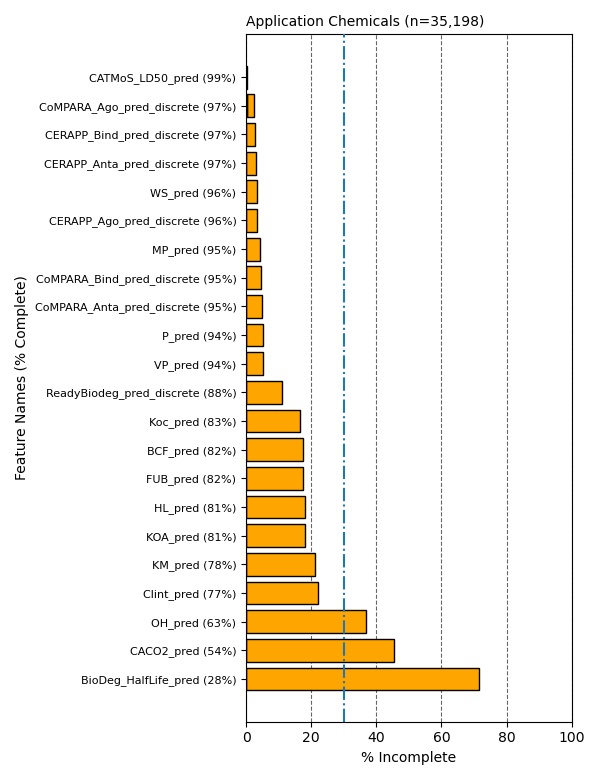
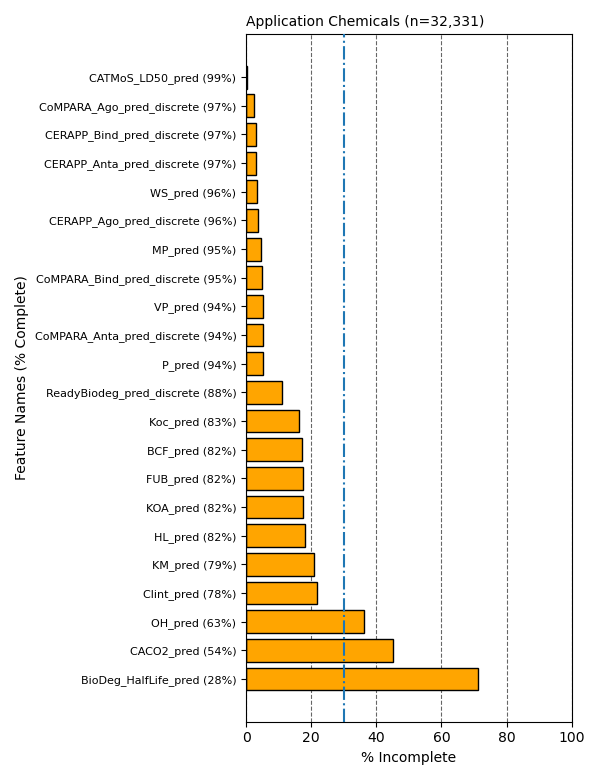
Refactor feature_completeness.py: Separate training and application

diff --git a/plotting/feature_completeness.py b/plotting/feature_completeness.py
@@ -30,23 +30,24 @@ def proportions_incomplete_subplots(
     ys = pd.read_csv(targets_file, index_col=0)
 
     ## Plot the data for training chemicals
-    samples_for_effect = {
+    in_samples_for_effect = {
         plot_settings.label_for_effect[effect] : y.dropna().index 
         for effect, y in ys.items()
         }
     proportions_incomplete_subplot(
         X, 
         AD_flags, 
-        samples_for_effect,
+        in_samples_for_effect,
         base_size_per_feature=base_size_per_feature,
         threshold=threshold
     )
 
     ## Plot the data for out-of-sample chemicals
+    out_samples =  X.index.difference(ys.index)
     proportions_incomplete_subplot(
         X, 
         AD_flags, 
-        {plot_settings.label_for_sample_type['out'] : X.index},
+        {plot_settings.label_for_sample_type['out'] : out_samples},
         base_size_per_feature=base_size_per_feature,
         threshold=threshold
     )
